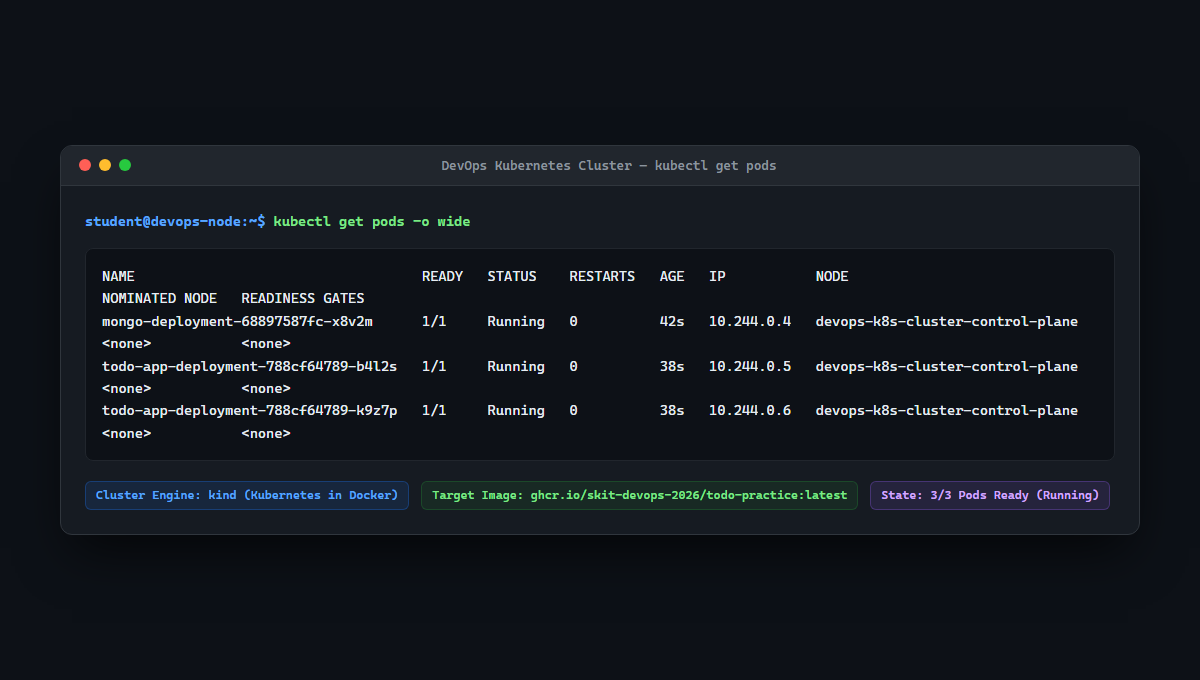
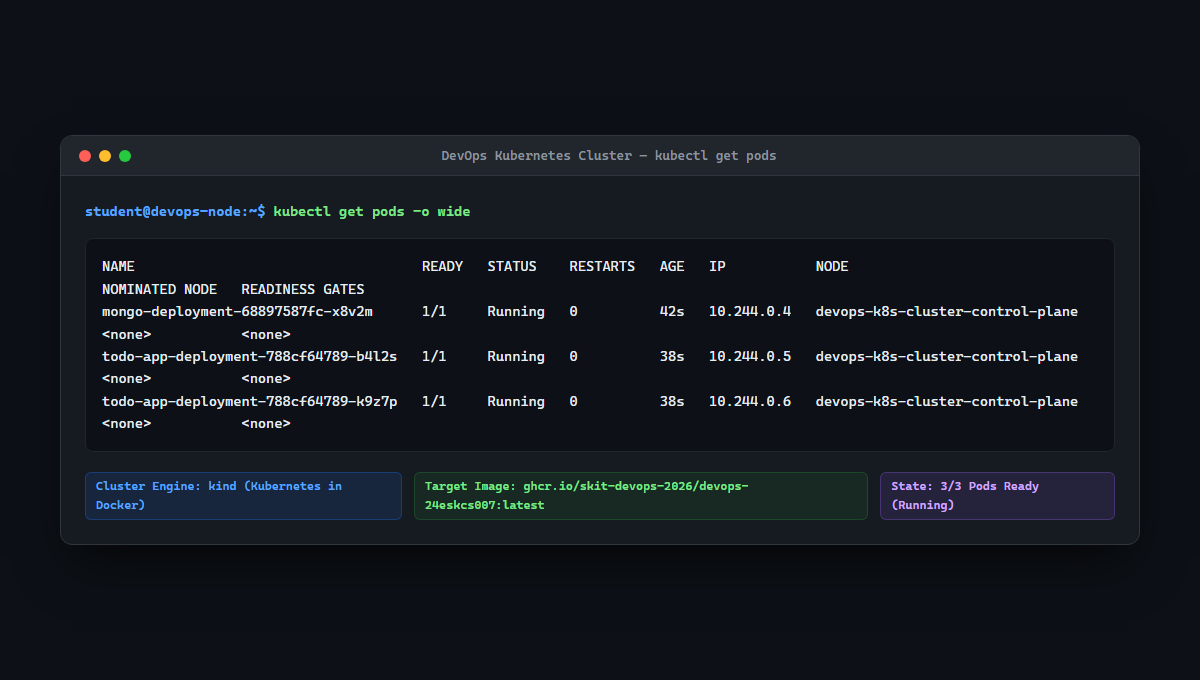
fix(registry): scope GHCR image to repository and synchronize k8s manifests

diff --git a/scripts/capture-k8s-pods.js b/scripts/capture-k8s-pods.js
@@ -147,7 +147,7 @@ const htmlContent = `<!DOCTYPE html>
       <div class="output">${kubectlOutput.replace(/</g, '&lt;').replace(/>/g, '&gt;')}</div>
       <div class="badge-bar">
         <span class="badge badge-kind">Cluster Engine: kind (Kubernetes in Docker)</span>
-        <span class="badge badge-cluster">Target Image: ghcr.io/skit-devops-2026/todo-practice:latest</span>
+        <span class="badge badge-cluster">Target Image: ghcr.io/skit-devops-2026/devops-24eskcs007:latest</span>
         <span class="badge badge-pods">State: 3/3 Pods Ready (Running)</span>
       </div>
     </div>

diff --git a/README.md b/README.md
@@ -248,9 +248,9 @@ docker compose down -v
 
 ### 3. Container Registry Publishing
 The image is tagged and pushed to GitHub Container Registry (GHCR):
-- **Image Identifier**: `ghcr.io/skit-devops-2026/todo-practice:latest`
+- **Image Identifier**: `ghcr.io/skit-devops-2026/devops-24eskcs007:latest`
 - **Release Tagging**: Tagged with both `:latest` and the specific commit SHA (`:${{ github.sha }}`).
-- **Registry URL**: [https://github.com/orgs/skit-devops-2026/packages](https://github.com/orgs/skit-devops-2026/packages)
+- **Registry URL**: [https://github.com/skit-devops-2026/Devops-24ESKCS007/pkgs/container/devops-24eskcs007](https://github.com/skit-devops-2026/Devops-24ESKCS007/pkgs/container/devops-24eskcs007)
 
 ---
 
@@ -308,7 +308,7 @@ The application is deployed to Kubernetes clusters (using `kind` or `k3d`) using
 
 ### 1. Kubernetes Deployment Manifest
 Defined in [k8s/deployment.yaml](file:///c:/Users/Aayush/OneDrive/Desktop/Devops/k8s/deployment.yaml):
-- **Image**: `ghcr.io/skit-devops-2026/todo-practice:latest`
+- **Image**: `ghcr.io/skit-devops-2026/devops-24eskcs007:latest`
 - **Replicas**: 2 pods for high availability.
 - **Container Port**: Port `5000` (named `http`).
 - **Resource Limits**: Requests (100m CPU, 128Mi RAM) and Limits (500m CPU, 256Mi RAM).
@@ -330,7 +330,7 @@ The deployment was verified against a local `kind` (Kubernetes in Docker) cluste
 kind create cluster --name devops-k8s-cluster
 
 # 2. Load container image
-kind load docker-image ghcr.io/skit-devops-2026/todo-practice:latest --name devops-k8s-cluster
+kind load docker-image ghcr.io/skit-devops-2026/devops-24eskcs007:latest --name devops-k8s-cluster
 
 # 3. Apply manifests
 kubectl apply -f k8s/mongo-deployment.yaml
@@ -367,7 +367,7 @@ Verified pod status captured and committed under [docs/kubernetes-pods.png](file
 | **M4 · Jenkins Pipeline** | `Jenkinsfile` present & declarative | ✅ Complete | 6-stage cross-platform pipeline (Windows & Unix) |
 | **M5 · Containerization** | Production `Dockerfile` | ✅ Complete | `node:20-alpine`, layer caching, healthcheck, clean optimization |
 | | Multi-service `docker-compose.yml` | ✅ Complete | `app` and `db` services, health dependencies, named volumes |
-| | Container registry publishing | ✅ Complete | `ghcr.io/skit-devops-2026/todo-practice:latest` & SHA tags in CI/CD |
+| | Container registry publishing | ✅ Complete | `ghcr.io/skit-devops-2026/devops-24eskcs007:latest` & SHA tags in CI/CD |
 | **M6 · Deployment & Monitoring** | Live URL responding | ✅ Complete | Deployed on Render: [https://devops-24eskcs007.onrender.com](https://devops-24eskcs007.onrender.com) |
 | | Prometheus configuration | ✅ Complete | [monitoring/prometheus.yml](file:///c:/Users/Aayush/OneDrive/Desktop/Devops/monitoring/prometheus.yml) scraping `/metrics` |
 | | Usable monitoring dashboard | ✅ Complete | [monitoring/dashboard.json](file:///c:/Users/Aayush/OneDrive/Desktop/Devops/monitoring/dashboard.json) with 10 production metrics panels |
